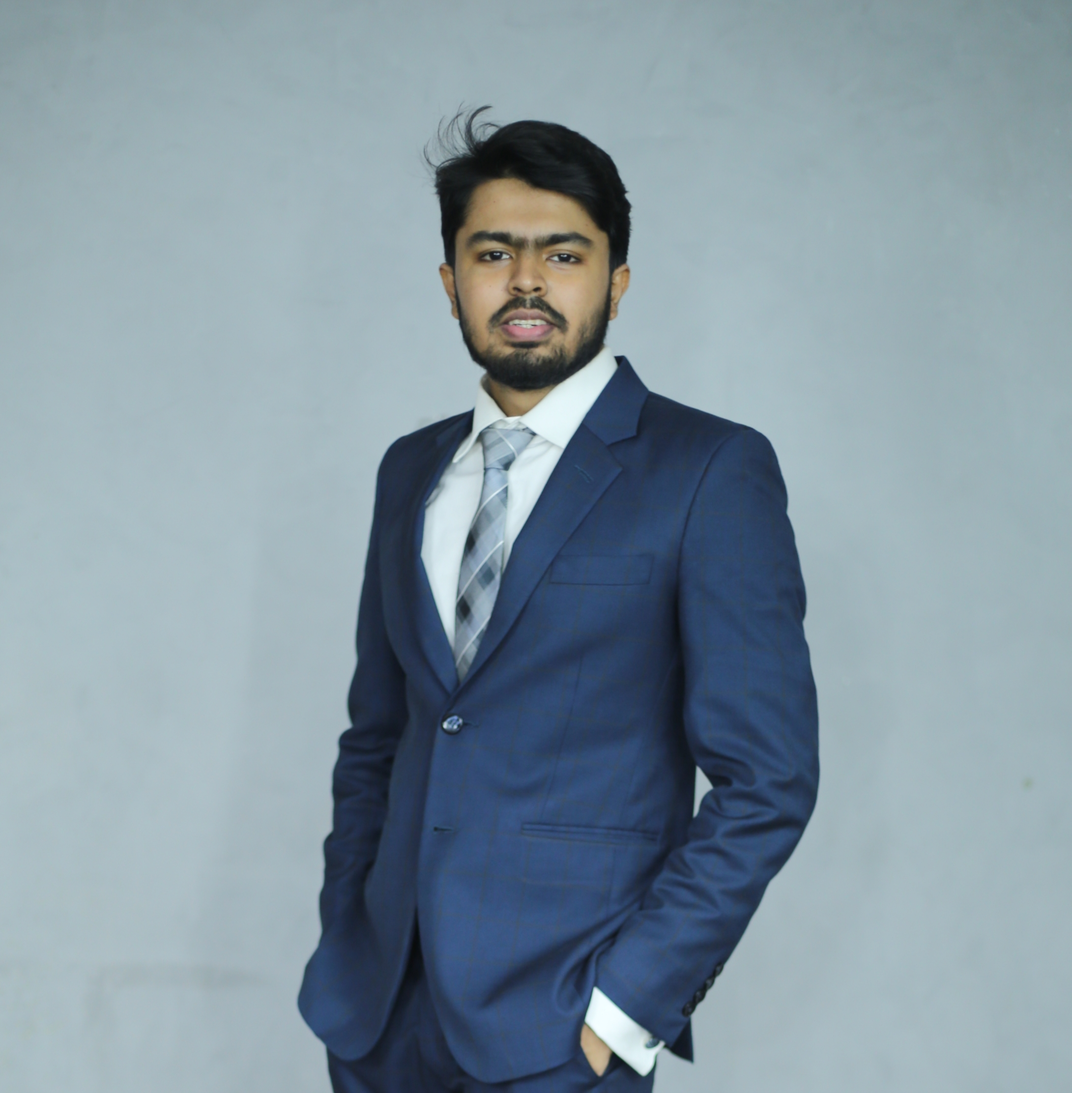
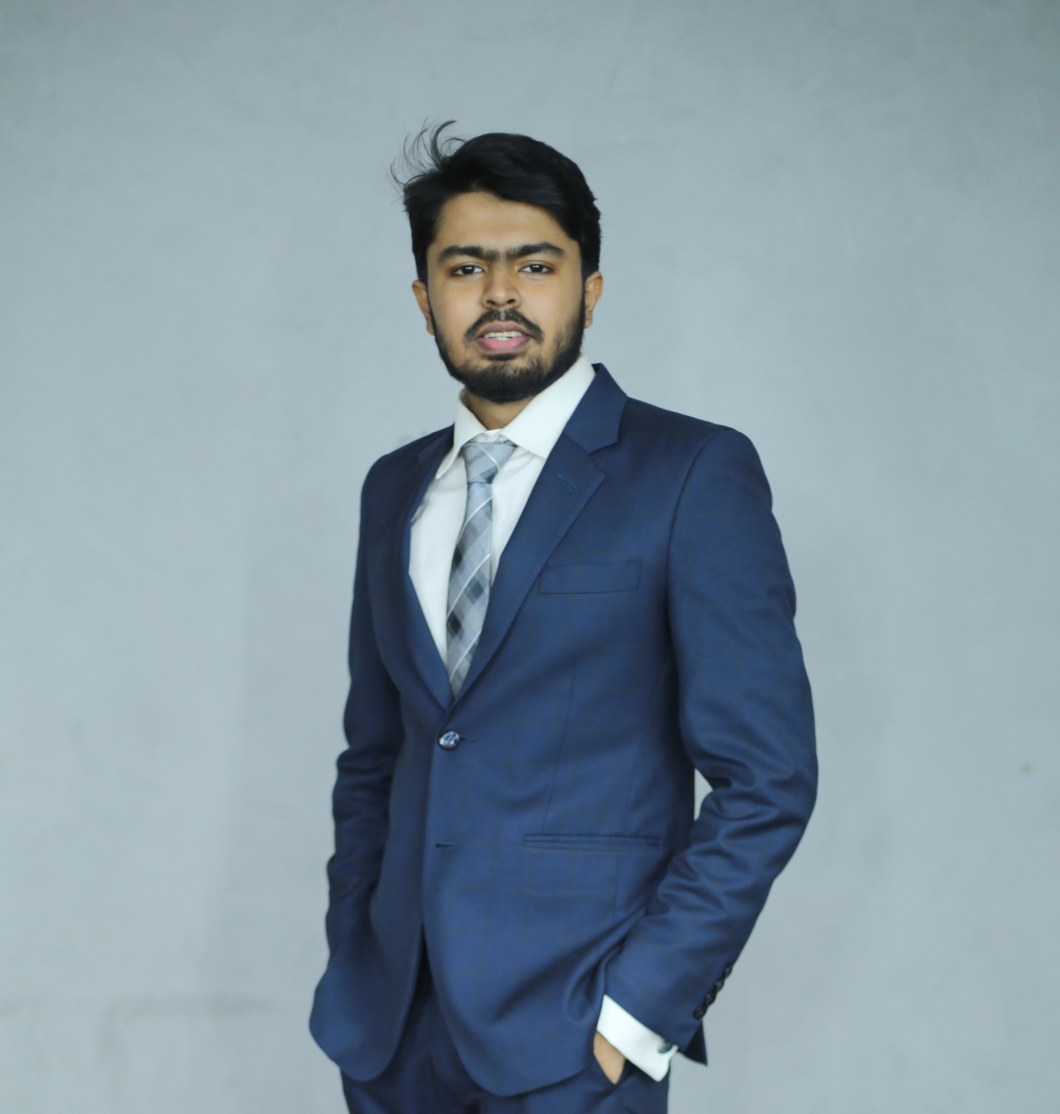
feat: create About component displaying personal details and an animated profile picture

diff --git a/src/data/projects.js b/src/data/projects.js
@@ -1,13 +1,31 @@
 
 export const projects = [
     {
+        title: "E-Commerce End-to-End Automation",
+        tech: ["Playwright", "JavaScript", "Page Object Model"],
+        description: [
+            "Automated end-to-end e-commerce workflows including user authentication, product browsing, cart management, and checkout.",
+            "Implemented Page Object Model (POM), validations, negative test scenarios, and failure screenshots to ensure reliable and maintainable test automation."
+        ],
+        github: "https://github.com/irrfanulhoque/E-Commerce-End-to-End-Automation.git"
+    },
+    {
+        title: "User Management API Automation",
+        tech: ["Postman", "REST API", "Newman"],
+        description: [
+            "Automated User Management REST API workflows in Postman, including authentication, authorization, and CRUD operations.",
+            "Implemented token handling, environment variables, and chained requests for end-to-end API validation."
+        ],
+        github: "https://github.com/irrfanulhoque/User-Management-API-Automation-.git"
+    },
+    {
         title: "E-Commerce Trustworthiness Chrome Extension",
         tech: ["MERN Stack", "TypeScript", "OpenAI API"],
         description: [
             "Built an AI-powered Chrome extension to assess e-commerce trust using reviews, government registration data, and sentiment analysis.",
             "Implemented Bayesian trust scoring with unit testing, data validation, and error tracking to ensure accuracy."
         ],
-        github: "#"
+        github: "https://github.com/irrfanulhoque/ecommerce-extension.git"
     },
     {
         title: "Discount Pro",
@@ -16,25 +34,7 @@ export const projects = [
             "Created a coupon-collecting web app for e-commerce users to find and use discounts in Bangladesh with secure authentication.",
             "Implemented dynamic coupon browsing, interactive copy-to-clipboard, and responsive UI with smooth animations."
         ],
-        github: "#"
-    },
-    {
-        title: "Pan Palette",
-        tech: ["React", "Tailwind CSS", "Node.js", "Express", "MongoDB", "JWT"],
-        description: [
-            "Developed a blogging platform for CRUD posts with personalized features like secure authentication, private routes, and wishlist management.",
-            "Designed a responsive UI, implemented search/filter, server-side sorting for efficient content discovery."
-        ],
-        github: "#"
-    },
-    {
-        title: "Chill Gamer",
-        tech: ["React", "Tailwind CSS", "Node.js", "Express", "MongoDB"],
-        description: [
-            "Built a platform for gamers with CRUD reviews, secure authentication, and personalized watchlists.",
-            "Designed responsive UI with React and Tailwind CSS, implemented private routes, dynamic sorting/filtering."
-        ],
-        github: "#"
+        github: "https://github.com/irrfanulhoque/discount_pro.git"
     },
     {
         title: "Coral Cove",
@@ -43,7 +43,7 @@ export const projects = [
             "Developed a tourism management platform to book hotels, transport, food, restaurant seats, and adventure rides.",
             "Designed the workflow, implemented UI, integrated Firebase authentication, and performed unit testing."
         ],
-        github: "#"
+        github: "https://github.com/isttiiak/coral-cove-frontend.git"
     },
     {
         title: "Diabetes Prediction System",
@@ -52,6 +52,6 @@ export const projects = [
             "Developed machine learning classifiers to assess diabetes risk from clinical datasets.",
             "Applied data cleaning, preprocessing, SQL-based dataset validation and visualization techniques."
         ],
-        github: "#"
+        github: "https://github.com/irrfanulhoque/Diabetes_Prediction_Project.git"
     }
 ];

diff --git a/src/components/Hero.jsx b/src/components/Hero.jsx
@@ -1,9 +1,37 @@
 
-import React from 'react';
+import React, { useState, useEffect } from 'react';
 import { motion } from 'framer-motion';
 import { Github, Linkedin, Mail, ArrowRight } from 'lucide-react';
 
 const Hero = () => {
+    const [displayedText, setDisplayedText] = useState('');
+    const [showCursor, setShowCursor] = useState(true);
+    const fullText = 'Irfanul Hoque.';
+
+    // Typewriter effect
+    useEffect(() => {
+        let currentIndex = 0;
+        const typingInterval = setInterval(() => {
+            if (currentIndex <= fullText.length) {
+                setDisplayedText(fullText.slice(0, currentIndex));
+                currentIndex++;
+            } else {
+                clearInterval(typingInterval);
+            }
+        }, 100); // 100ms per character
+
+        return () => clearInterval(typingInterval);
+    }, []);
+
+    // Cursor blinking effect
+    useEffect(() => {
+        const cursorInterval = setInterval(() => {
+            setShowCursor(prev => !prev);
+        }, 530); // Blink every 530ms
+
+        return () => clearInterval(cursorInterval);
+    }, []);
+
     // Vertical lines configuration (Data flow bottom to top)
     const verticalLines = [
         { left: '10%', duration: 2, delay: 0, opacity: 0.4 },
@@ -106,9 +134,10 @@ const Hero = () => {
                         initial={{ opacity: 0, y: 20 }}
                         animate={{ opacity: 1, y: 0 }}
                         transition={{ delay: 0.3, duration: 0.8 }}
-                        className="text-5xl md:text-7xl font-bold text-slate-100 mb-4"
+                        className="text-5xl md:text-7xl font-bold text-slate-100 mb-4 min-h-[4rem] md:min-h-[5rem]"
                     >
-                        Irfanul Hoque.
+                        {displayedText}
+                        <span className={`${showCursor ? 'opacity-100' : 'opacity-0'} transition-opacity duration-100`}>|</span>
                     </motion.h1>
 
                     <motion.h2

diff --git a/src/data/skills.js b/src/data/skills.js
@@ -1,9 +1,10 @@
 
 export const skills = {
-    languages: ["Python", "C", "SQL", "HTML", "CSS", "Javascript"],
+    languages: ["Python", "C", "Javascript", "SQL"],
     frameworks: ["TensorFlow"],
-    libraries: ["Scikit-learn", "NumPy", "Pandas", "Matplotlib", "React.js"],
+    libraries: ["Scikit-learn", "NumPy", "Pandas", "Matplotlib", "React.js", "Tailwind CSS"],
     data: ["SQL", "MySQL", "Excel", "Tableau", "Pandas", "Data Cleaning", "Data Verification"],
+    testing: ["Postman", "Playwright", "JMeter"],
     tools: ["Git", "GitHub", "Xampp", "Excel", "Tableau", "Notion", "Trello", "Jira"],
     platforms: ["VScode", "Google Colab", "Kaggle", "Figma", "Linux"],
     soft: ["Collaboration", "Agile Methodology", "Detail Orientation", "Documentation", "Communication", "Deadline Management"]

diff --git a/src/components/About.jsx b/src/components/About.jsx
@@ -63,7 +63,7 @@ const About = () => {
                             <motion.div
                                 whileHover={{ scale: 1.02 }}
                                 transition={{ duration: 0.3 }}
-                                className="relative w-64 h-64 md:w-80 md:h-80 rounded bg-accent/20 cursor-pointer"
+                                className="relative w-72 h-72 md:w-96 md:h-96 rounded bg-accent/20 cursor-pointer"
                             >
                                 <div className="absolute inset-0 border-2 border-accent rounded translate-x-4 translate-y-4 transition-transform group-hover:translate-x-2 group-hover:translate-y-2"></div>
                                 {/* Image Container */}
